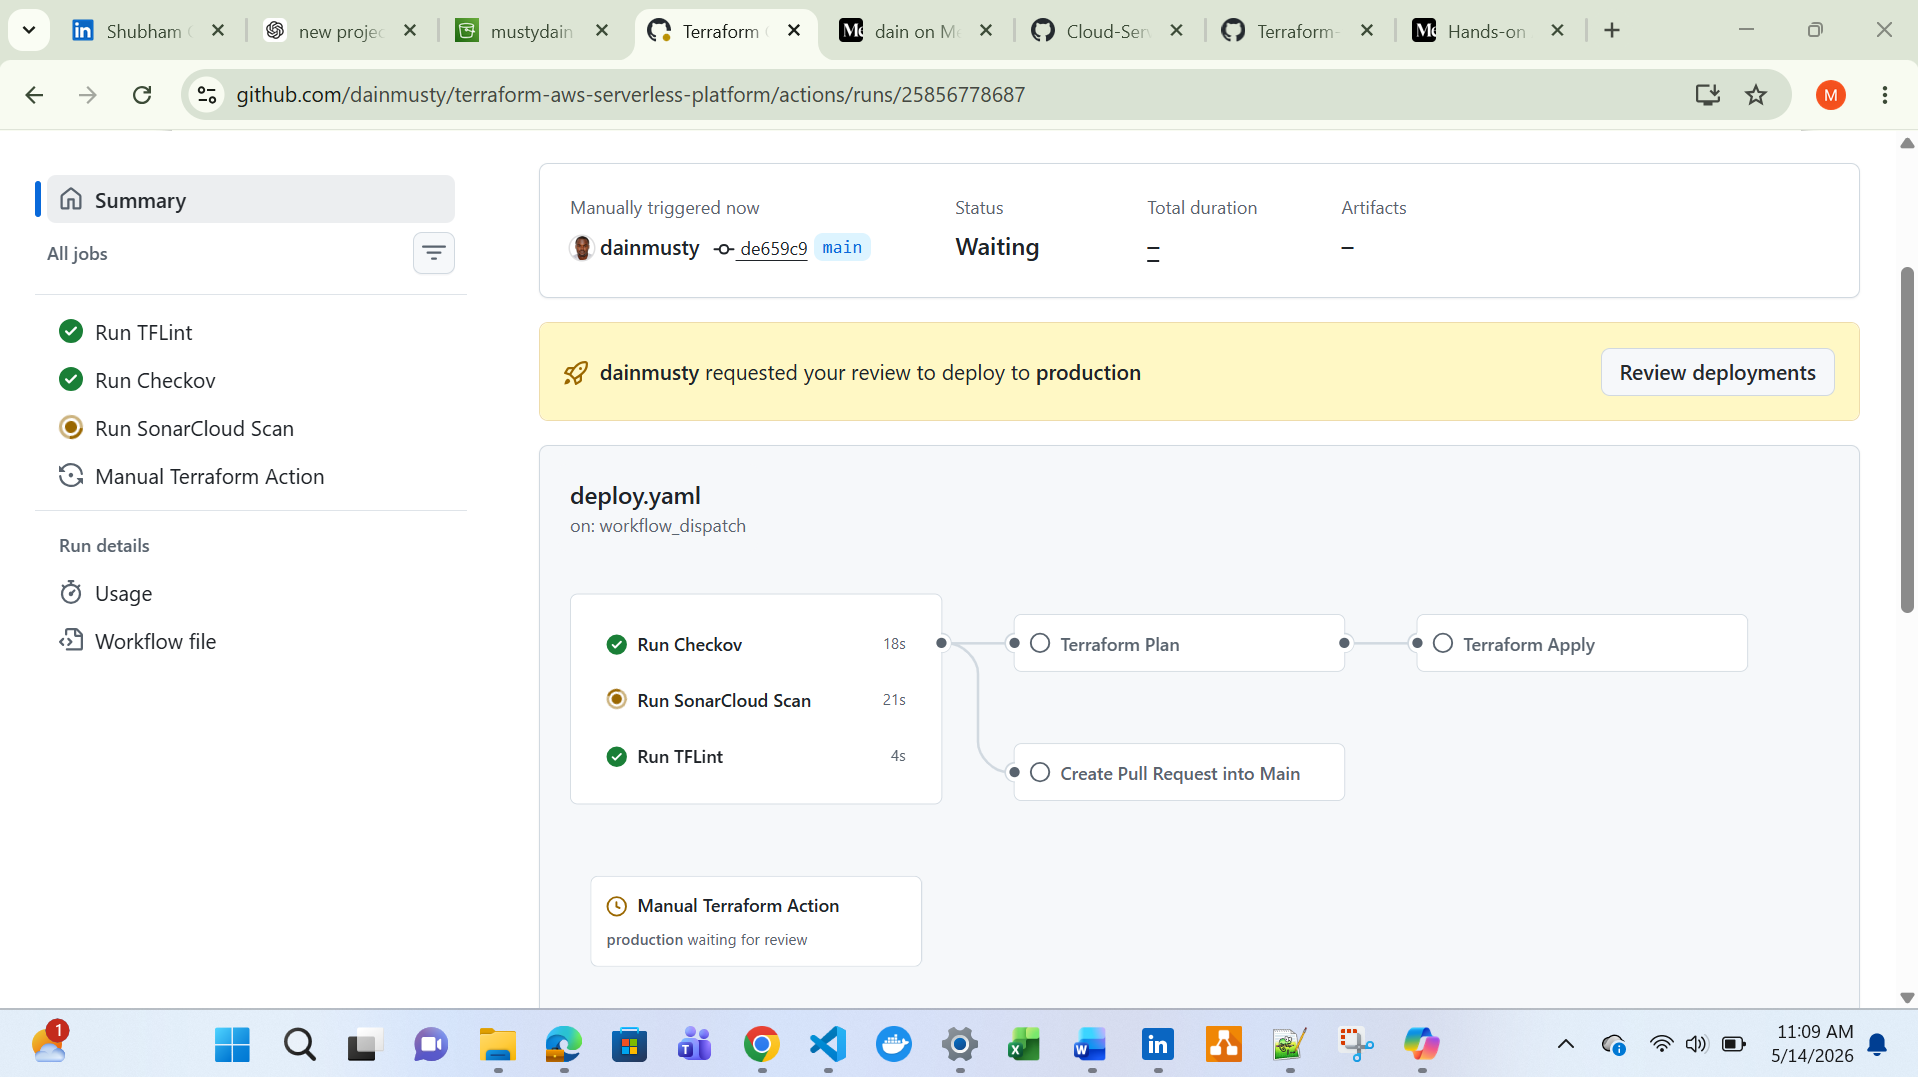
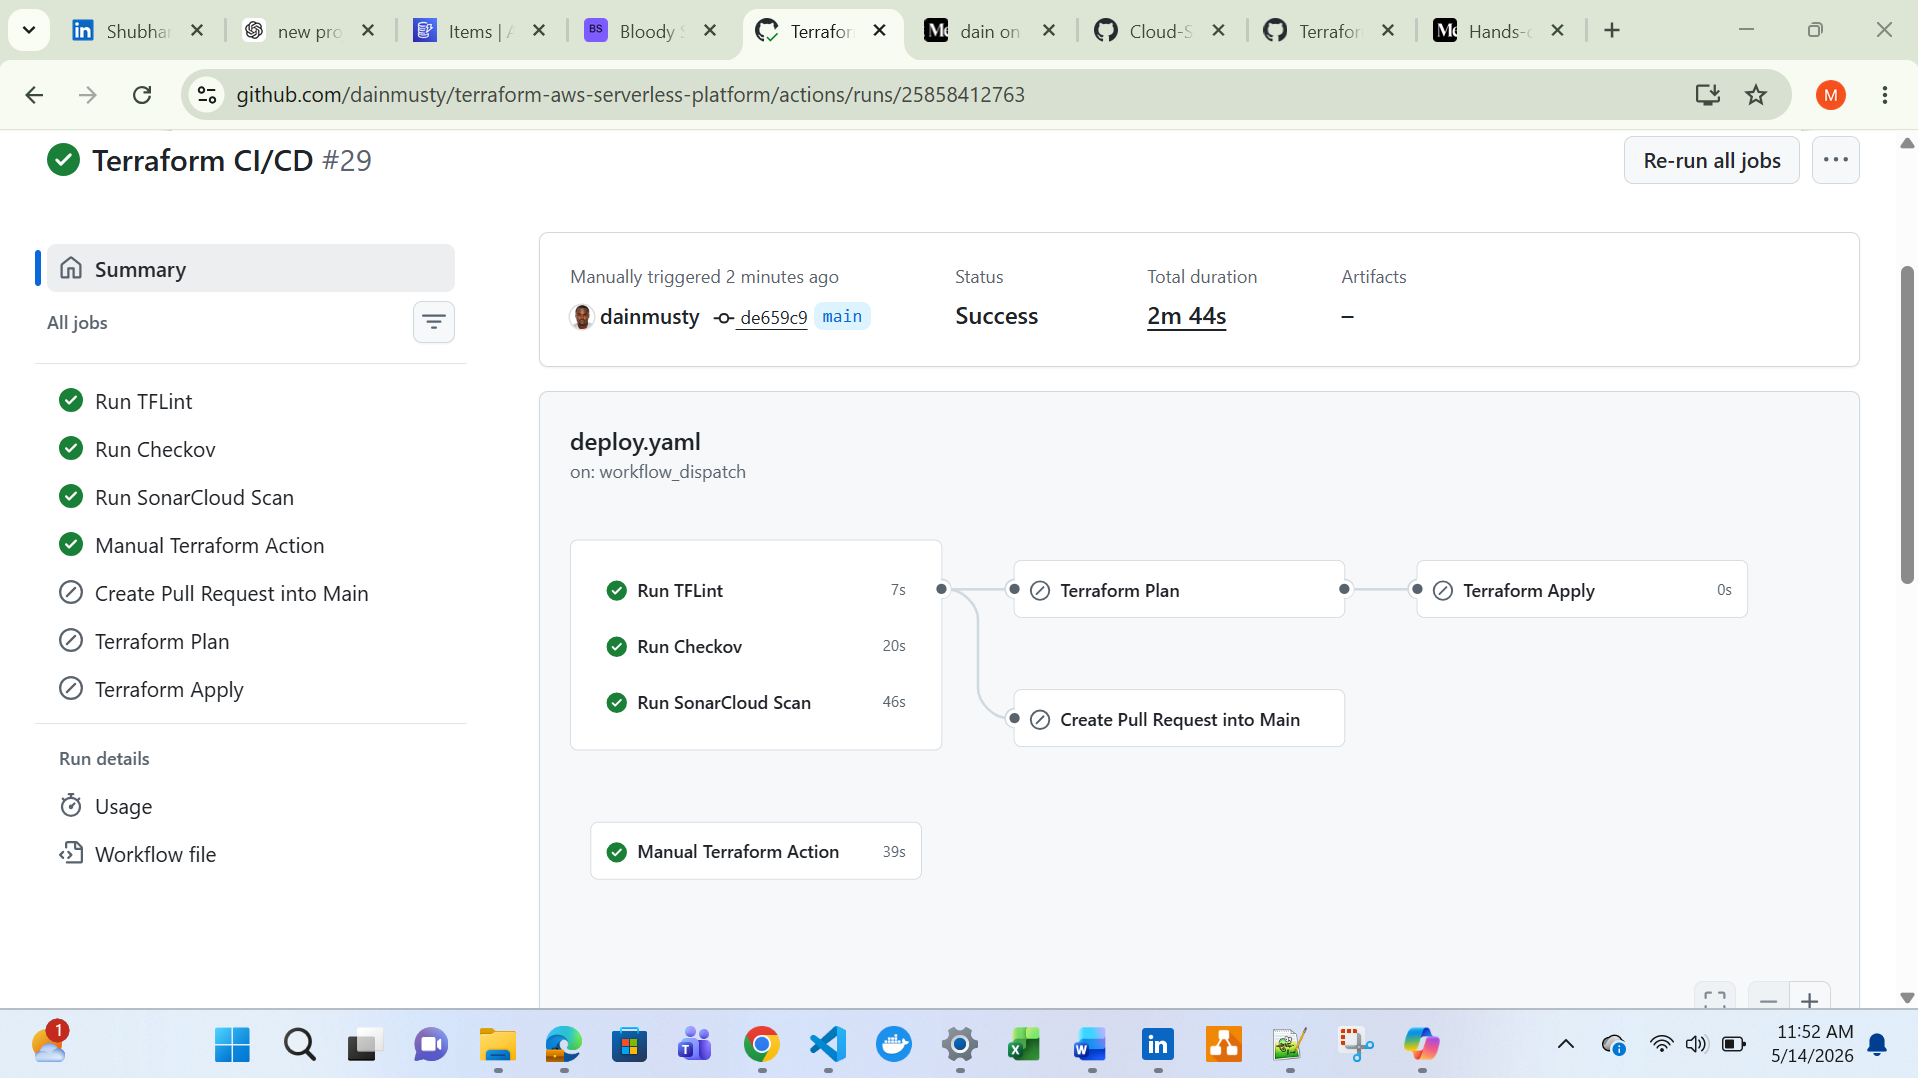
uploaded screenshots

diff --git a/README.md b/README.md
@@ -13,6 +13,8 @@
 
 ![GitHub Actions Pipeline](screenshots/github-actions-workflow.png)
 
+![GitHub Actions Pipeline Success](screenshots/github-actions-workflow-17-resources-deployed.png)
+
 ![DynamoDB Records](screenshots/dynamodb-records.png)
 
 ![Amplify Deployment](screenshots/amplify-deployment.png)